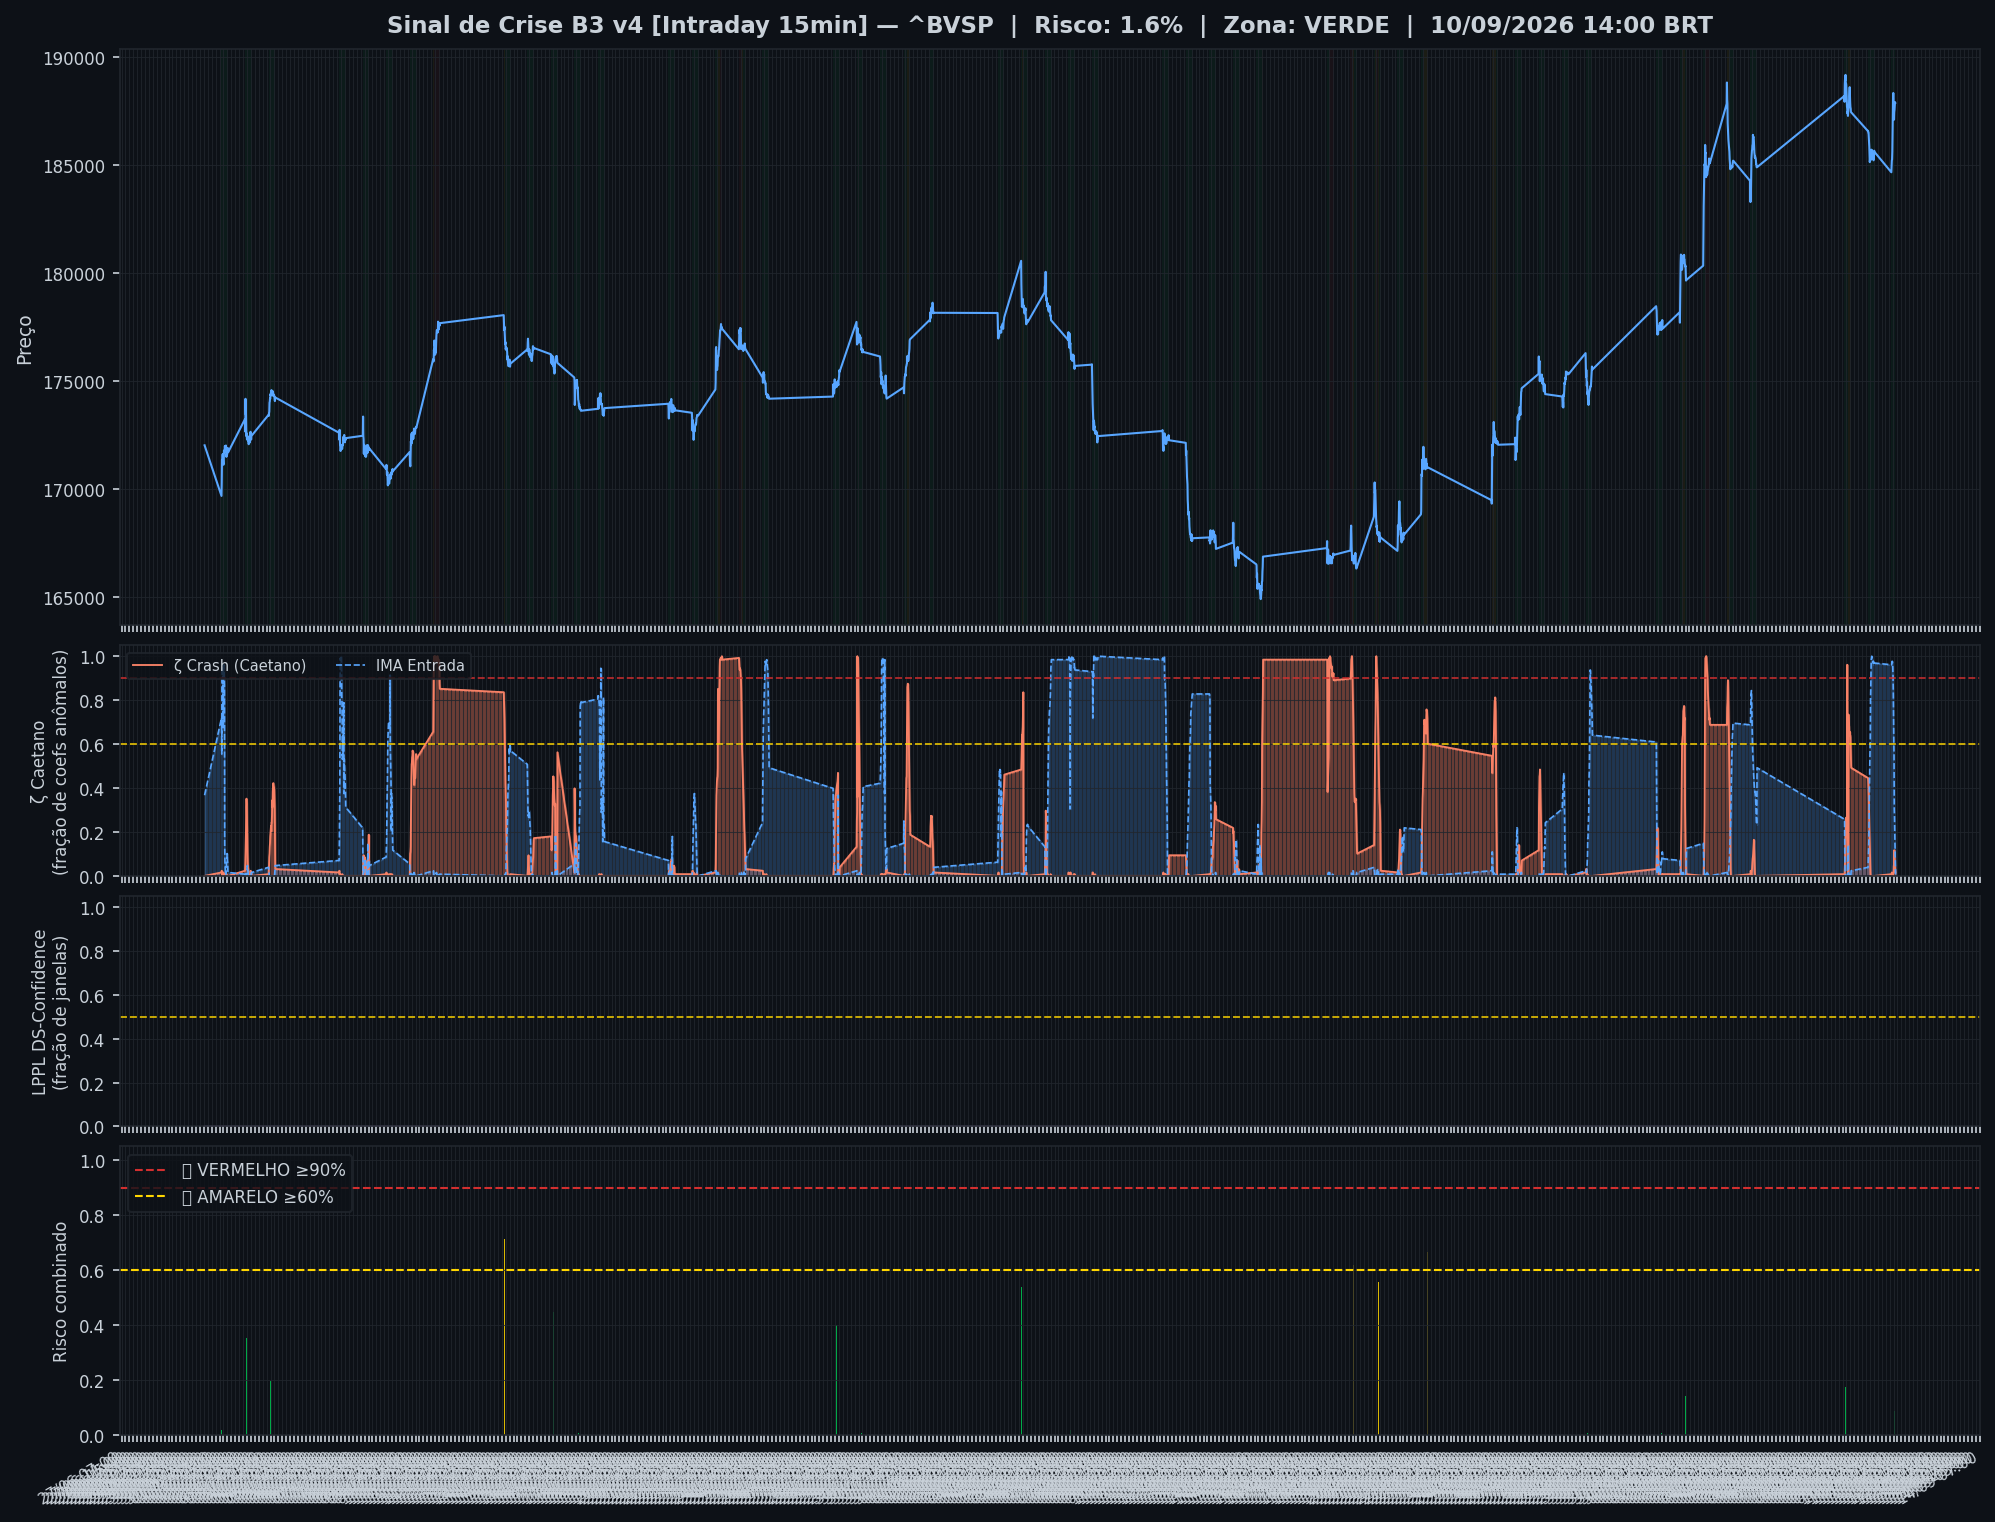
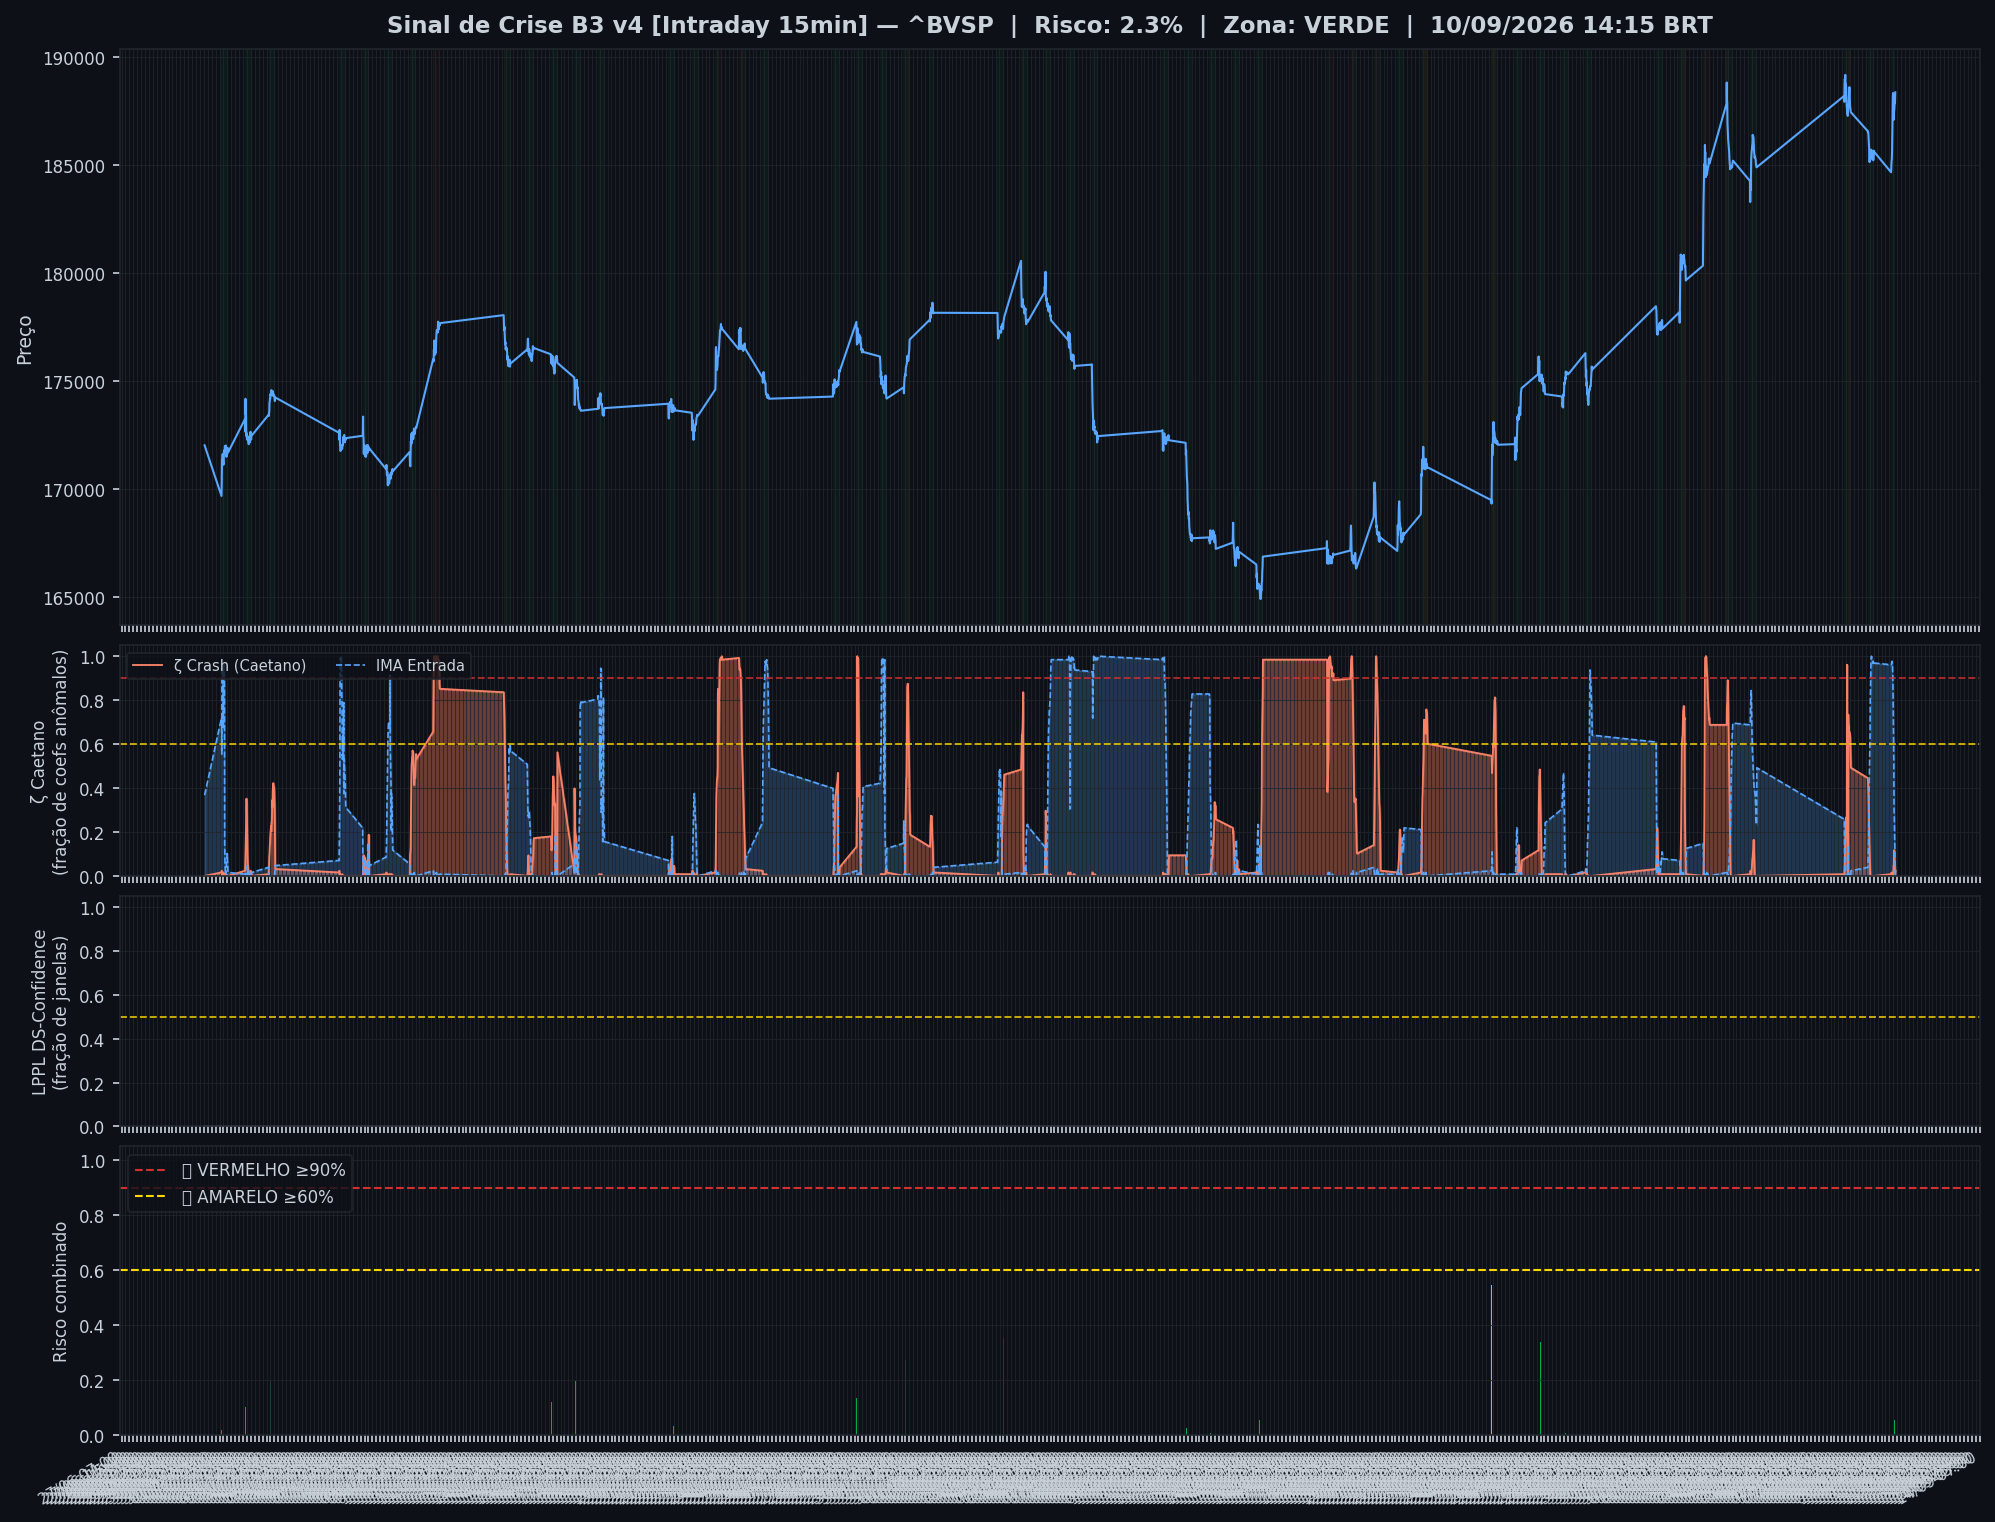
🤖 Auto: Sinal 10/09/2026 15:00

diff --git a/content/intraday/2026-09-10.md b/content/intraday/2026-09-10.md
@@ -1,10 +1,10 @@
 ---
-title: "🟢 Intraday 10/09/2026 14:00 BRT — VERDE"
+title: "🟢 Intraday 10/09/2026 14:15 BRT — VERDE"
 date: 2026-09-10
 tags: [intraday]
 ---
 
-> [!success] 🟢 **VERDE** — Risco 2% · ▼ -1 p.p. vs leitura anterior
+> [!success] 🟢 **VERDE** — Risco 2% · ▲ +1 p.p. vs leitura anterior
 > `░░░░░░░░░░░░░░░░░░░░`
 > Mercado sem sinais relevantes de estresse.
 
@@ -12,9 +12,9 @@ tags: [intraday]
 | Indicador | Valor |
 |---|---|
 | 🔴 ζ Crash — severidade da queda em curso | **2%** |
-| 🔵 ζ Entrada — estrutura de fundo | 1% |
+| 🔵 ζ Entrada — estrutura de fundo | 0% |
 | 🫧 LPPL DS-Confidence | 0% |
-| 📊 Ibovespa | 187.875 pts |
+| 📊 Ibovespa | 188.362 pts |
 
 ![Gráfico do sinal](../graficos/sinal_intraday.png)
 
@@ -22,6 +22,7 @@ tags: [intraday]
 
 | Data | Zona | Risco | IMA Crash | Entrada | LPPL |
 |---|---|---|---|---|---|
+| 2026-09-10 14:15 | 🟢 VERDE | **2%** | 2% | 0% | 0% |
 | 2026-09-10 14:00 | 🟢 VERDE | **2%** | 2% | 1% | 0% |
 | 2026-09-10 13:45 | 🟢 VERDE | **2%** | 2% | 5% | 0% |
 | 2026-09-10 13:30 | 🟢 VERDE | **4%** | 4% | 11% | 0% |
@@ -51,7 +52,6 @@ tags: [intraday]
 | 2026-09-09 14:30 | 🟢 VERDE | **0%** | 0% | 98% | 0% |
 | 2026-09-09 14:15 | 🟢 VERDE | **0%** | 0% | 98% | 0% |
 | 2026-09-09 14:00 | 🟢 VERDE | **0%** | 0% | 99% | 0% |
-| 2026-09-09 13:45 | 🟢 VERDE | **0%** | 0% | 100% | 0% |
 
 ## Monitor Multi-Ativo
 
@@ -59,35 +59,35 @@ tags: [intraday]
 
 | Zona | Ativo | Setor | IMA Crash | IMA Entrada |
 |---|---|---|---|---|
-| 🟢 | **VALE** | Mineração | 1.6% | 0.8% |
-| 🟢 | **ITAUUNIBANCO** | Financeiro | 1.6% | 0.8% |
-| 🟢 | **PETROBRAS** | Petróleo | 1.6% | 0.8% |
-| 🟢 | **PETROBRAS** | Petróleo | 1.6% | 0.8% |
-| 🟢 | **AXIA ENERGIA** | Energia | 1.6% | 0.8% |
-| 🟢 | **SABESP** | Saneamento | 1.6% | 0.8% |
-| 🟢 | **BRADESCO** | Financeiro | 1.6% | 0.8% |
-| 🟢 | **B3** | Financeiro | 1.6% | 0.8% |
-| 🟢 | **ITAUSA** | Financeiro | 1.6% | 0.8% |
-| 🟢 | **WEG** | Industrial | 1.6% | 0.8% |
-| 🟢 | **BTGP BANCO** | Financeiro | 1.6% | 0.8% |
-| 🟢 | **EMBRAER** | Outros | 1.6% | 0.8% |
-| 🟢 | **BRASIL** | Financeiro | 1.6% | 0.8% |
-| 🟢 | **AMBEV S/A** | Consumo | 1.6% | 0.8% |
-| 🟢 | **ENEVA** | Energia | 1.6% | 0.8% |
-| 🟢 | **EQUATORIAL** | Energia | 1.6% | 0.8% |
-| 🟢 | **COPEL** | Energia | 1.6% | 0.8% |
-| 🟢 | **PRIO** | Petróleo | 1.6% | 0.8% |
-| 🟢 | **VIBRA** | Energia | 1.6% | 0.8% |
-| 🟢 | **ULTRAPAR** | Outros | 1.6% | 0.8% |
-| 🟢 | **REDE D OR** | Saúde | 1.6% | 0.8% |
-| 🟢 | **LOCALIZA** | Aluguel | 1.6% | 0.8% |
+| 🟢 | **USD/BRL** | Câmbio | 4.7% | 1.6% |
+| 🟢 | **VALE** | Mineração | 1.6% | 1.6% |
+| 🟢 | **ITAUUNIBANCO** | Financeiro | 1.6% | 1.6% |
+| 🟢 | **PETROBRAS** | Petróleo | 1.6% | 1.6% |
+| 🟢 | **PETROBRAS** | Petróleo | 1.6% | 1.6% |
+| 🟢 | **AXIA ENERGIA** | Energia | 1.6% | 1.6% |
+| 🟢 | **SABESP** | Saneamento | 1.6% | 1.6% |
+| 🟢 | **BRADESCO** | Financeiro | 1.6% | 1.6% |
+| 🟢 | **B3** | Financeiro | 1.6% | 1.6% |
+| 🟢 | **ITAUSA** | Financeiro | 1.6% | 1.6% |
+| 🟢 | **WEG** | Industrial | 1.6% | 1.6% |
+| 🟢 | **BTGP BANCO** | Financeiro | 1.6% | 1.6% |
+| 🟢 | **EMBRAER** | Outros | 1.6% | 1.6% |
+| 🟢 | **BRASIL** | Financeiro | 1.6% | 1.6% |
+| 🟢 | **AMBEV S/A** | Consumo | 1.6% | 1.6% |
+| 🟢 | **ENEVA** | Energia | 1.6% | 1.6% |
+| 🟢 | **EQUATORIAL** | Energia | 1.6% | 1.6% |
+| 🟢 | **COPEL** | Energia | 1.6% | 1.6% |
+| 🟢 | **PRIO** | Petróleo | 1.6% | 1.6% |
+| 🟢 | **VIBRA** | Energia | 1.6% | 1.6% |
+| 🟢 | **ULTRAPAR** | Outros | 1.6% | 1.6% |
+| 🟢 | **REDE D OR** | Saúde | 1.6% | 1.6% |
+| 🟢 | **LOCALIZA** | Aluguel | 1.6% | 1.6% |
 | 🟢 | **GERDAU** | Siderurgia | 1.6% | 0.8% |
-| 🟢 | **SUZANO S.A.** | Papel/Celulose | 1.6% | 0.8% |
-| 🟢 | **USD/BRL** | Câmbio | 1.6% | 1.6% |
+| 🟢 | **SUZANO S.A.** | Papel/Celulose | 1.6% | 1.6% |
 
 ![Monitor multi-ativo](../graficos/multi_intraday.png)
 
-*Página atualizada em 10/09/2026 14:45 BRT (leitura da barra de 2026-09-10 14:00 BRT).*
+*Página atualizada em 10/09/2026 15:00 BRT (leitura da barra de 2026-09-10 14:15 BRT).*
 
 > [!info]- Como interpretar (clique para expandir)
 > - **ζ Crash**: fração dos coeficientes wavelet acima do corte (Caetano & Yoneyama 2009). Escala absoluta: ζ=0,90 = 90% dos coeficientes anômalos — historicamente, quedas com ζ≥0,90 foram mais fundas e mais longas. **Mede a severidade do movimento em curso, não prevê o início da queda.**

diff --git a/content/index.md b/content/index.md
@@ -8,9 +8,9 @@ tags: [home]
 
 Monitoramento diário e intraday do Ibovespa — **IMA Wavelet** (Prof. Marco Antonio Leonel Caetano, ITA/INSPER) + **LPPL DS-Confidence** (Prof. Didier Sornette, ETH-Zurich).
 
-*Última atualização: 10/09/2026 14:45 BRT · ^BVSP · Intraday 15min · v4*
+*Última atualização: 10/09/2026 15:00 BRT · ^BVSP · Intraday 15min · v4*
 
-> [!success] 🟢 **VERDE** — Risco 2% · ▼ -1 p.p. vs leitura anterior
+> [!success] 🟢 **VERDE** — Risco 2% · ▲ +1 p.p. vs leitura anterior
 > `░░░░░░░░░░░░░░░░░░░░`
 > Mercado sem sinais relevantes de estresse.
 
@@ -18,9 +18,9 @@ Monitoramento diário e intraday do Ibovespa — **IMA Wavelet** (Prof. Marco An
 | Indicador | Valor |
 |---|---|
 | 🔴 ζ Crash — severidade da queda em curso | **2%** |
-| 🔵 ζ Entrada — estrutura de fundo | 1% |
+| 🔵 ζ Entrada — estrutura de fundo | 0% |
 | 🫧 LPPL DS-Confidence | 0% |
-| 📊 Ibovespa | 187.875 pts |
+| 📊 Ibovespa | 188.362 pts |
 
 **Multi-ativo:** 0% em tensão (0🔴 0🟡 de 25 ativos)
 

diff --git a/content/historico.md b/content/historico.md
@@ -7,6 +7,7 @@ tags: [historico]
 
 | Data | Modo | Zona | Risco | IMA | LPPL |
 |---|---|---|---|---|---|
+| 2026-09-10 14:15 | intraday | 🟢 VERDE | 2% | 2% | 0% |
 | 2026-09-10 14:00 | intraday | 🟢 VERDE | 2% | 2% | 0% |
 | 2026-09-10 13:45 | intraday | 🟢 VERDE | 2% | 2% | 0% |
 | 2026-09-10 13:30 | intraday | 🟢 VERDE | 4% | 4% | 0% |
